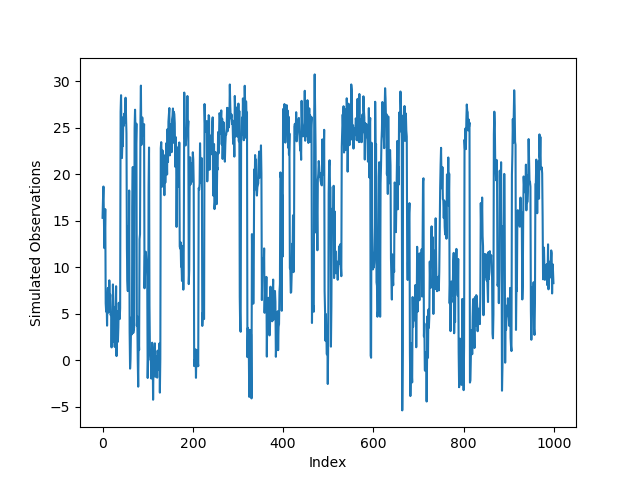
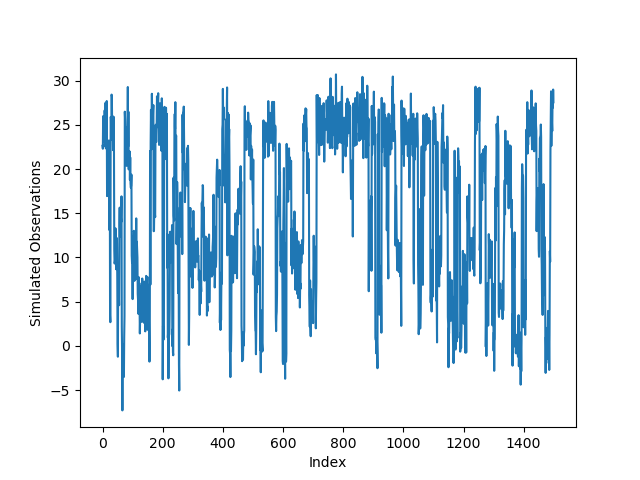
minor fixes

diff --git a/src/cross_validation.py b/src/cross_validation.py
@@ -7,14 +7,16 @@ from visualizer import plot, plot_mu
 
 class CrossValidation:
 
-    def __init__(self, bayesian=False, num_states = 6):
+    def __init__(self, bayesian=False, num_states = 6, num_training=1000, num_test=200):
         self.data = SimulateData()
         self.num_states = num_states
         self.bayesian = bayesian
+        self.num_training = num_training
+        self.num_test = num_test
         self.model = None  # will either be a Bayesian or a MaxLike model
 
 
-    def train(self, num_training=1000, num_test=200, num_iter=10000, num_burnin=1000):
+    def train(self, num_iter=10000, num_burnin=1000):
         """
 
         :param num_training: size of the training set for cv
@@ -24,14 +26,14 @@ class CrossValidation:
         :return:
         """
 
-        obs, state_path = self.data.simulate_continuous(num_obs=num_training+num_test)
+        obs, state_path = self.data.simulate_continuous(num_obs=self.num_training+self.num_test)
 
         # TODO: (SHERRY) KDE plot
 
-        training_set = obs[:num_training]
-        test_set = obs[-num_test:]
-        training_state_path = state_path[:num_training]
-        test_state_path = state_path[-num_test:]
+        training_set = obs[:self.num_training]
+        test_set = obs[-self.num_test:]
+        training_state_path = state_path[:self.num_training]
+        test_state_path = state_path[-self.num_test:]
 
 
         if self.bayesian:
@@ -44,15 +46,13 @@ class CrossValidation:
             B = [[mu, np.sqrt(1/self.model.sigma_invsq)] for mu in self.model.mu]
 
             # use viterbi algo because Gibbs sampler not trained on test data
-            # BUG: training rate is lower than test rate
             path, _, _ = self.model.viterbi_robust(training_set, self.model.initial_dist, self.model.A, np.array(B))
-            # path = self.model.state_path
             rate = np.sum(path == training_state_path)/len(training_state_path)
 
-            plot(training_set, ylabel = "Simulated Observations", name = "Bayes_Original_Observations", bayesian=True)
-            plot(training_state_path, ylabel = "Simulated Hidden States", name = "Bayes_Original_States",bayesian=True)
-            plot(path, ylabel = "Estimated Hidden States", name = "Bayes_Viterbi_Path", bayesian=True)
-            plot_mu(chain=self.model.chain, num_states=self.model.num_states, num_iter=num_iter)
+            # plot(training_set, ylabel = "Simulated Observations", name = "Bayes_Original_Observations", bayesian=True)
+            # plot(training_state_path, ylabel = "Simulated Hidden States", name = "Bayes_Original_States",bayesian=True)
+            # plot(path, ylabel = "Estimated Hidden States", name = "Bayes_Viterbi_Path", bayesian=True)
+            # plot_mu(chain=self.model.chain, num_states=self.model.num_states, num_iter=num_iter)
 
 
         else:
@@ -82,17 +82,17 @@ class CrossValidation:
 
             # use viterbi algo because Gibbs sampler not trained on test data
             test_path, _, _ = self.model.viterbi_robust(test_set, self.model.initial_dist, self.model.A, np.array(B))
-            rate = np.sum(test_path == state_path[1000:])/200
+            rate = np.sum(test_path == state_path[-self.num_test:])/self.num_test
 
 
-            plot(test_state_path, ylabel="Simulated Hidden States", name="Bayes_Test_States", bayesian=True)
-            plot(test_path, ylabel="Estimated Hidden States", name="Bayes_Viterbi_Test_Path", bayesian=True)
+            # plot(test_state_path, ylabel="Simulated Hidden States", name="Bayes_Test_States", bayesian=True)
+            # plot(test_path, ylabel="Estimated Hidden States", name="Bayes_Viterbi_Test_Path", bayesian=True)
 
 
         else:
 
             test_path, _, _ = self.model.viterbi_robust(test_set, self.sim_init, self.sim_tran, self.sim_emis)
-            rate = np.sum(test_path == state_path[1000:])/200  # 187  157
+            rate = np.sum(test_path == state_path[-self.num_test])/self.num_test
 
             plot(test_state_path, ylabel="Simulated Hidden States", name="Max_Test_States", bayesian=False)
             plot(test_path, ylabel="Estimated Hidden States", name="Max_Viterbi_Test_Path", bayesian=False)

diff --git a/src/main.py b/src/main.py
@@ -12,19 +12,17 @@ if __name__ == "__main__":
     test_maxlik = np.array([None] * cv_iter)
 
     num_training = 1000
-    num_test = 200
+    num_test = 1000
 
-    bayesian = False
+    bayesian = True
     if bayesian == True:
         num_iter = 100
         num_burnin = 100
 
         for i in range(cv_iter):
 
-            model = CrossValidation(bayesian = bayesian)
-            rate, state_path, test_set, test_state_path = model.train(num_training=num_training,
-                                                                      num_test=num_test,
-                                                                      num_iter=num_iter,
+            model = CrossValidation(bayesian=bayesian, num_training=num_training, num_test=num_test)
+            rate, state_path, test_set, test_state_path = model.train(num_iter=num_iter,
                                                                       num_burnin=num_burnin)
             train_bayesian[i] = rate
             test_bayesian[i] = model.test(state_path, test_set, test_state_path)
